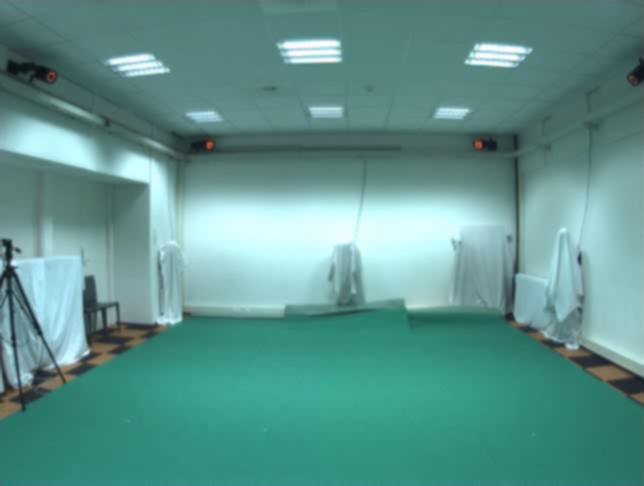
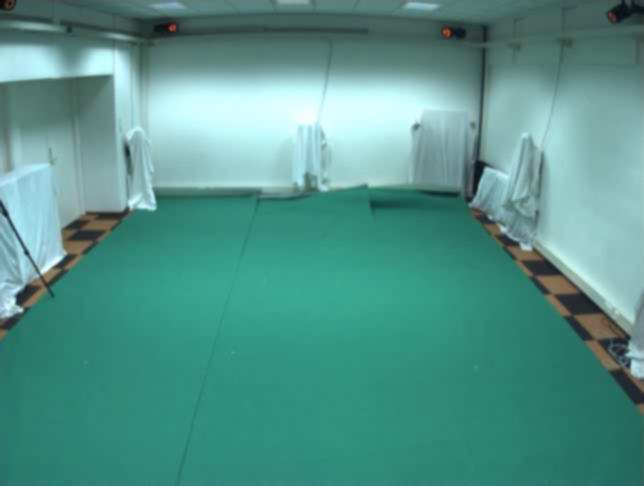
Update background subtraction
New backgrounds for the new videos with new angles and using erosion + dilation for better subtraction

diff --git a/VoxelReconstruction/src/controllers/Scene3DRenderer.cpp b/VoxelReconstruction/src/controllers/Scene3DRenderer.cpp
@@ -9,6 +9,7 @@
 
 #include <algorithm>
 #include <opencv2/core/types.hpp>
+#include <opencv2/photo.hpp>
 
 #include <opencv2/core/mat.hpp>
 #include <opencv2/highgui/highgui.hpp>
@@ -133,8 +134,9 @@ namespace nl_uu_science_gmt
 		vector<Mat> channels;
 		split(hsv_image, channels);  // Split the HSV-channels for further analysis
 
+
 		// Background subtraction H
-		Mat tmp, foreground, background, blur, img;
+		Mat dilation, erosion, tmp, foreground, background, blur, img;
 		absdiff(channels[0], camera->getBgHsvChannels().at(0), tmp);
 		threshold(tmp, foreground, 0, 255, CV_THRESH_BINARY + CV_THRESH_OTSU);
 
@@ -149,9 +151,19 @@ namespace nl_uu_science_gmt
 		bitwise_or(foreground, background, foreground);
 
 		// Improve the foreground image
-		int kernel_size = 2;
-		Mat kernel = getStructuringElement(MORPH_RECT, Size(2 * kernel_size + 1, 2 * kernel_size + 1), Point(kernel_size, kernel_size));
-		cv::dilate(foreground, img, kernel);
+		// First erode to remove lines then dilate to fill holes in the models
+		// Lastly erode a bit from the model to give the models a bit more of a "human" look
+		int ekernel_size = 2;
+		Mat ekernel = getStructuringElement(MORPH_RECT, Size(2 * ekernel_size + 1, 2 * ekernel_size + 1), Point(ekernel_size, ekernel_size));
+		erode(foreground, erosion, ekernel);
+
+		int dkernel_size = ekernel_size + 6;
+		Mat dkernel = getStructuringElement(MORPH_RECT, Size(2 * dkernel_size + 1, 2 * dkernel_size + 1), Point(dkernel_size, dkernel_size));
+		dilate(erosion, dilation, dkernel);
+
+		ekernel_size = 2;
+		ekernel = getStructuringElement(MORPH_RECT, Size(2 * ekernel_size + 1, 2 * ekernel_size + 1), Point(ekernel_size, ekernel_size));
+		erode(dilation, img, ekernel);
 
 		camera->setForegroundImage(img);
 	}
